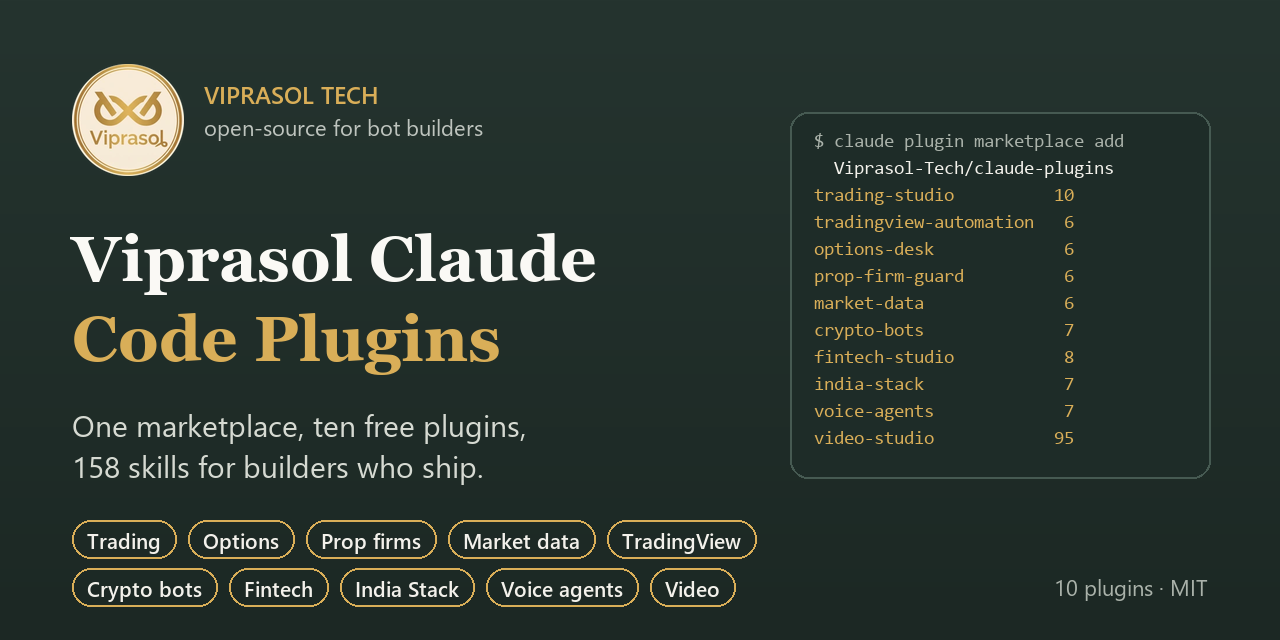
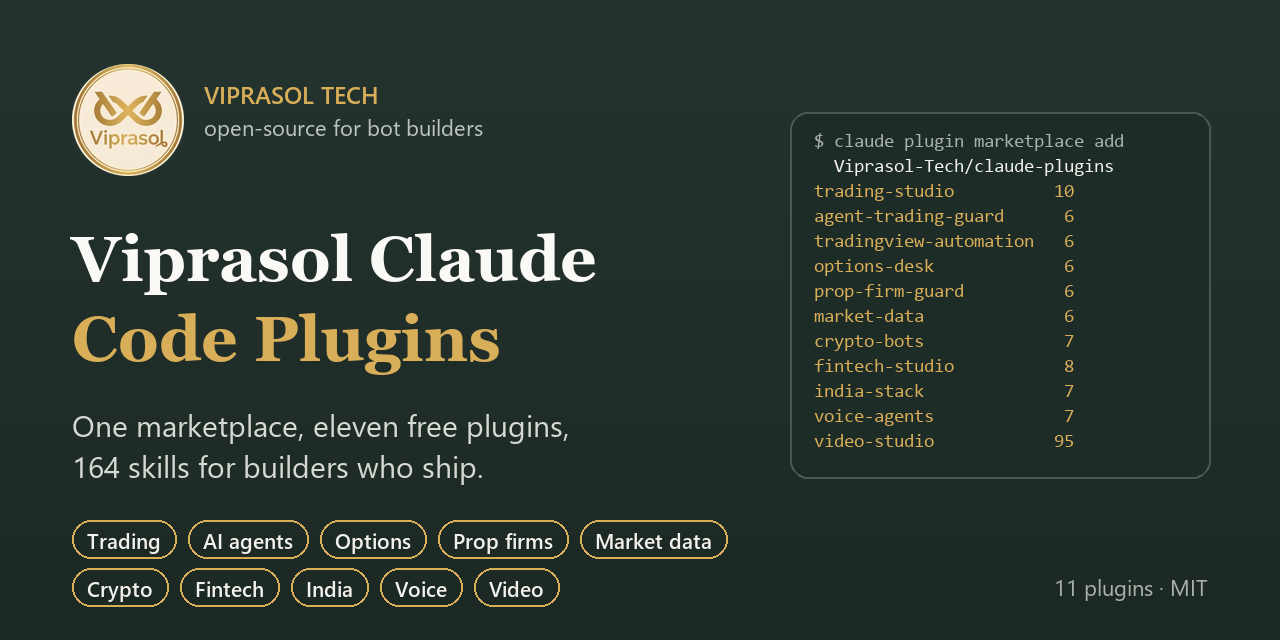
feat: add agent-trading-guard to the marketplace

diff --git a/README.md b/README.md
@@ -1,15 +1,15 @@
 <div align="center">
 
-<img src=".github/social-preview.png" alt="Viprasol Claude Code plugins: one marketplace, ten free plugins, 158 skills for trading, fintech, India Stack, voice agents and video." width="100%">
+<img src=".github/social-preview.png" alt="Viprasol Claude Code plugins: one marketplace, eleven free plugins, 164 skills for trading, fintech, India Stack, voice agents and video." width="100%">
 
 ### Every free Claude Code plugin from Viprasol, in one marketplace
 
-**Trading · options · prop firms · market data · TradingView automation · crypto bots · fintech · India Stack · voice agents · video editing**<br>
+**Trading · AI trading agents · options · prop firms · market data · TradingView automation · crypto bots · fintech · India Stack · voice agents · video editing**<br>
 Add the marketplace once, then install only the plugins you need.
 
 [![License: MIT](https://img.shields.io/badge/license-MIT-25342f?style=for-the-badge)](LICENSE)
 [![Claude Code](https://img.shields.io/badge/Claude_Code-marketplace-d97757?style=for-the-badge)](https://code.claude.com/docs/en/plugins/create-marketplace)
-[![Plugins](https://img.shields.io/badge/plugins-10-765820?style=for-the-badge)](#-plugins)
+[![Plugins](https://img.shields.io/badge/plugins-11-765820?style=for-the-badge)](#-plugins)
 [![CI](https://img.shields.io/github/actions/workflow/status/Viprasol-Tech/claude-plugins/ci.yml?branch=main&style=for-the-badge&label=links)](https://github.com/Viprasol-Tech/claude-plugins/actions/workflows/ci.yml)
 
 </div>
@@ -26,6 +26,7 @@ Then pick what you need:
 
 ```bash
 claude plugin install trading-studio@viprasol
+claude plugin install agent-trading-guard@viprasol
 claude plugin install tradingview-automation@viprasol
 claude plugin install options-desk@viprasol
 claude plugin install prop-firm-guard@viprasol
@@ -46,6 +47,7 @@ Skills load automatically when your request matches, or call one directly as
 | Plugin | Skills | For | Source |
 | --- | ---: | --- | --- |
 | 📈 **`trading-studio`** | 10 | Pine Script v6, MQL5 Expert Advisors, backtest audits with Deflated Sharpe, position sizing, bot security, trade journals, Kalshi / Polymarket | [claude-trading-skills](https://github.com/Viprasol-Tech/claude-trading-skills) |
+| 🤖 **`agent-trading-guard`** | 6 | LLM trading agents that can't blow up an account: deterministic order gate, prompt-injection defence, backtest leakage audit, safe broker MCP servers, audit trails | [claude-ai-trading-agent-skills](https://github.com/Viprasol-Tech/claude-ai-trading-agent-skills) |
 | 🔔 **`tradingview-automation`** | 6 | TradingView alerts and webhooks, signal-to-order workers, Zerodha / Angel One / Dhan / Upstox under SEBI's 2026 algo rules, MT5 and crypto bridges, TradingView charts | [claude-tradingview-automation-skills](https://github.com/Viprasol-Tech/claude-tradingview-automation-skills) |
 | 🧮 **`options-desk`** | 6 | Option pricing, Greeks and IV, exact multi-leg payoffs, chain data, spread orders on IBKR / Alpaca / Tradier / Kite, NSE & SEBI F&O rules, options backtests | [claude-options-trading-skills](https://github.com/Viprasol-Tech/claude-options-trading-skills) |
 | 🛡 **`prop-firm-guard`** | 6 | Prop-firm drawdown rules computed like FTMO, FundedNext, The5ers, FundingPips, Topstep and Apex do, challenge pass odds, MT5 equity guard EA, futures trailing-drawdown guards | [claude-prop-firm-skills](https://github.com/Viprasol-Tech/claude-prop-firm-skills) |

diff --git a/CHANGELOG.md b/CHANGELOG.md
@@ -1,5 +1,10 @@
 # Changelog
 
+## [1.4.0] - 2026-11-25
+
+### Added
+- `agent-trading-guard` (claude-ai-trading-agent-skills): 6 skills for safe LLM trading agents.
+
 ## [1.3.0] - 2026-11-24
 
 ### Added
